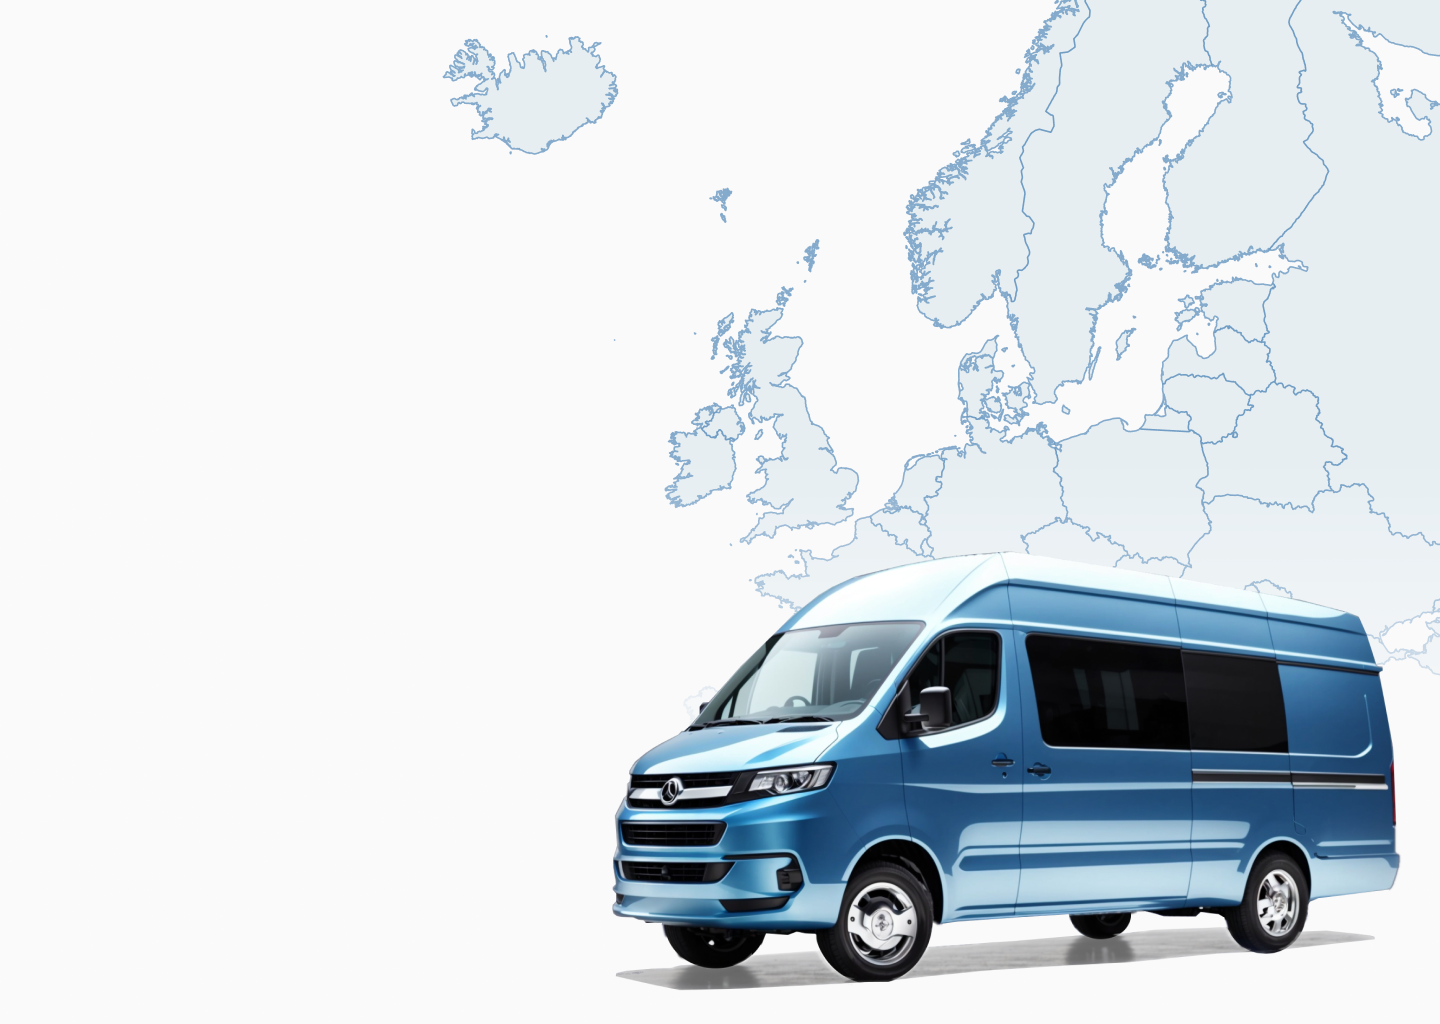
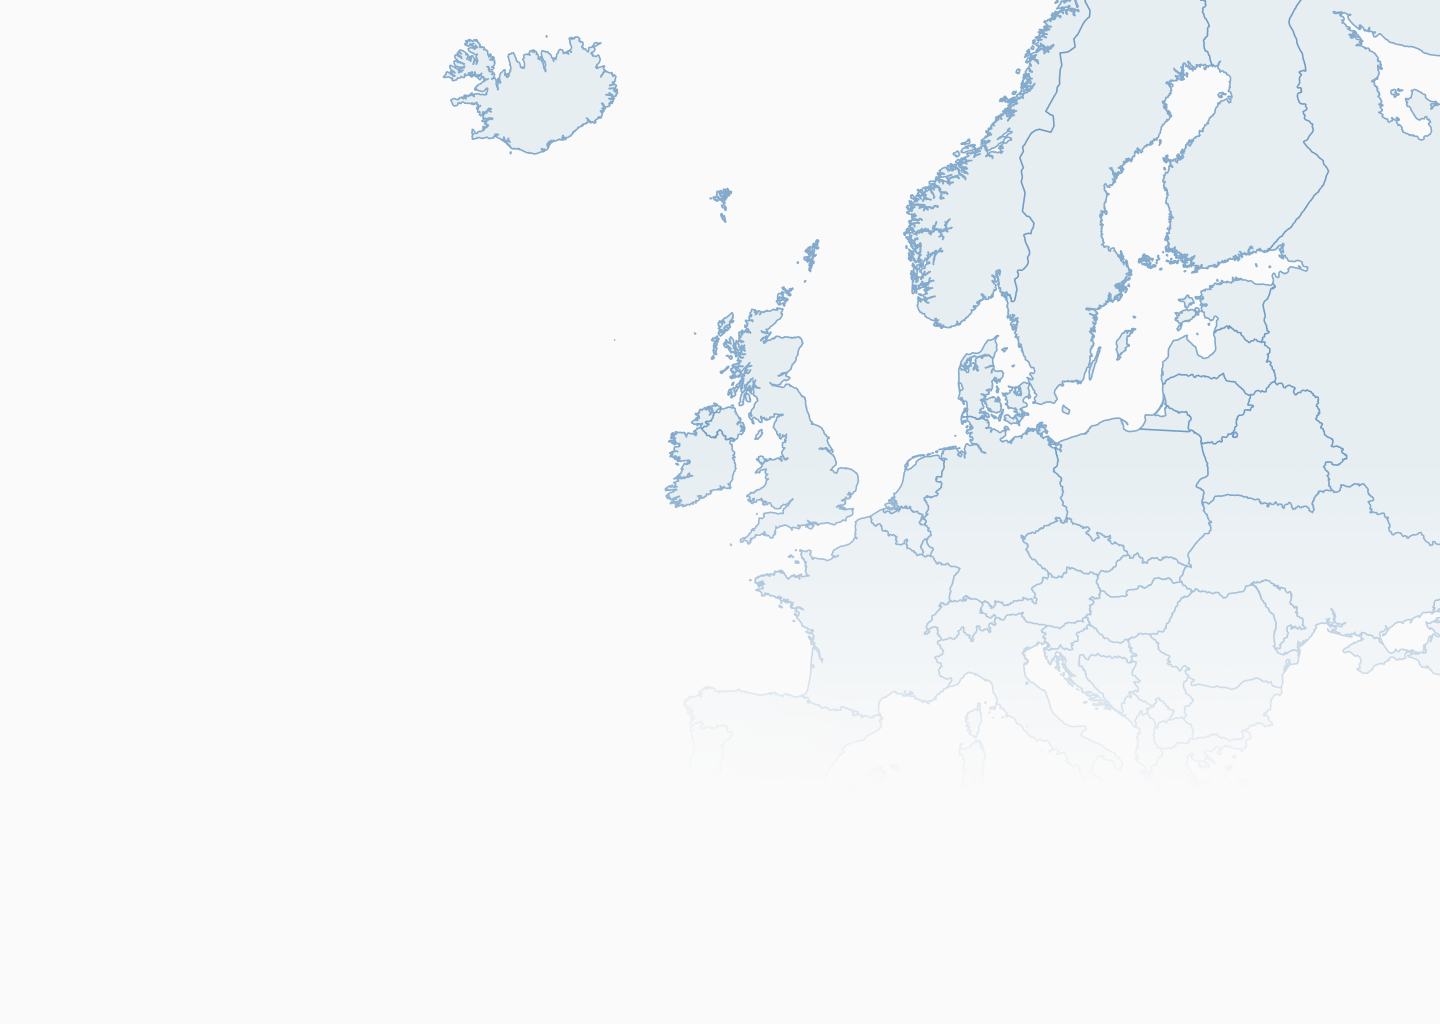
fix(5): corrected layout on smaller screens

Changed region(s): [[0.4062, 0.5625, 0.9688, 0.9688]]

diff --git a/packages/dashing-bumblebee-ui/app/page.tsx b/packages/dashing-bumblebee-ui/app/page.tsx
@@ -1,3 +1,5 @@
+"use client";
+
 import Image from "next/image";
 import Box from "@mui/material/Box";
 import Container from "@mui/material/Container";
@@ -6,8 +8,12 @@ import Button from "@mui/material/Button";
 import Stack from "@mui/material/Stack";
 import { ApplicationTheme } from "../src/components/theme/ApplicationTheme";
 import { ApplicationContextRoot } from "../context";
+import useMediaQuery from "@mui/material/useMediaQuery";
+import { useTheme } from "@mui/material/styles";
 
 export default function Home() {
+  const theme = useTheme();
+
   return (
     <Box
       sx={{
@@ -26,7 +32,7 @@ export default function Home() {
         sx={{
           top: "0",
           objectFit: "cover",
-          objectPosition: "bottom",
+          objectPosition: "center right",
           zIndex: "-9",
         }}
         fill
@@ -35,7 +41,7 @@ export default function Home() {
         maxWidth="sm"
         sx={{
           color: ApplicationTheme.palette.text.main,
-          marginLeft: "4em",
+          marginLeft: useMediaQuery(theme.breakpoints.down("sm")) ? "0" : "4em",
           textAlign: "center",
           overflowWrap: "break-word",
         }}
